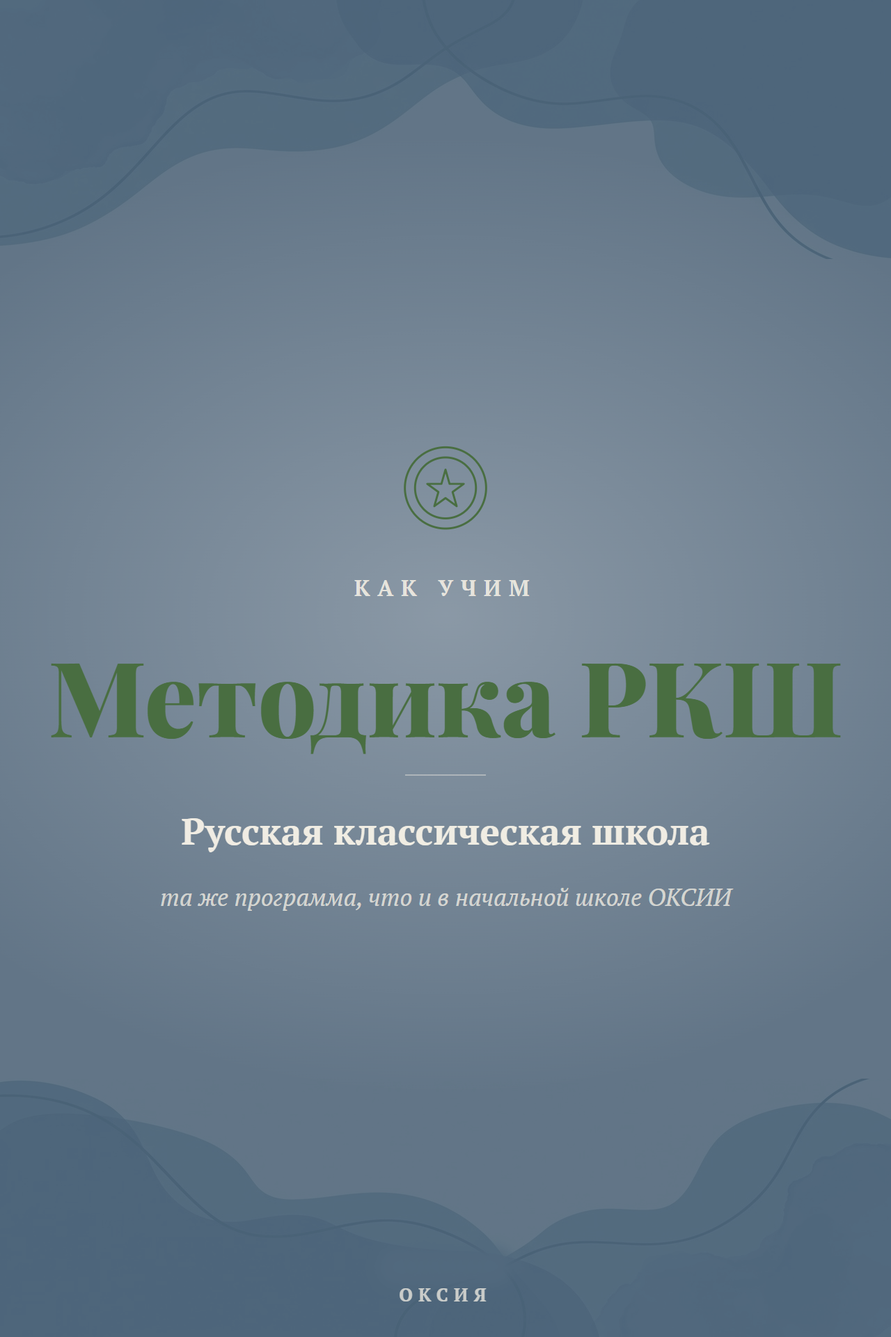
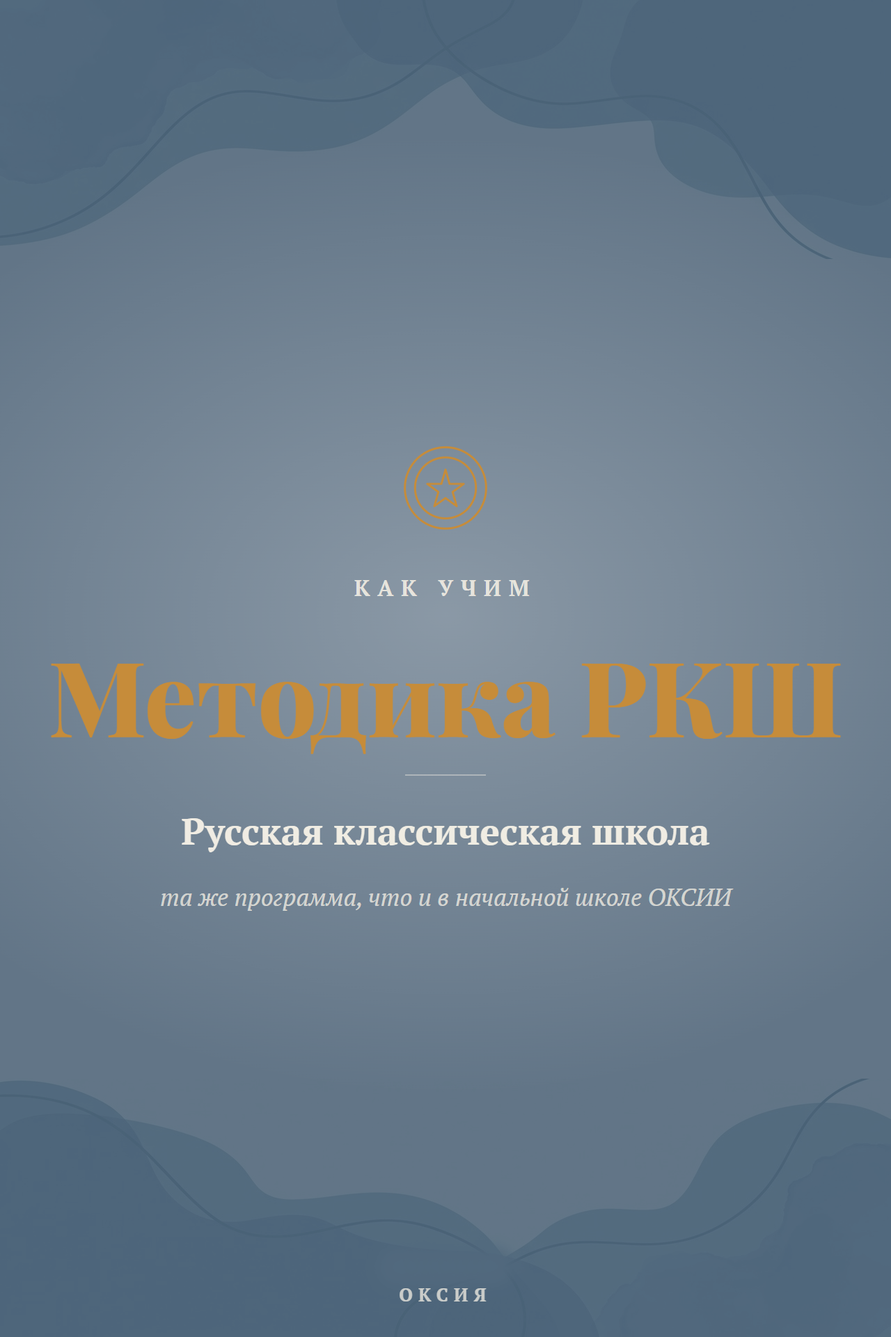
Перенос яркого дизайна на все 60 внутренних слайдов Историй
Все 5 оставшихся историй (Семейные классы, Доп. занятия, Педагоги, Как проходят занятия, Как записаться) переведены на новую цветовую систему (ротация синий/красный/зелёный, две фоновые волны, вариативная композиция).

Фикс: заголовок инверт-слайдов («Методика РКШ» и другие) раньше принудительно красился в акцентный цвет слайда через инлайн-стиль, из-за чего на синем фоне текст иногда выходил нечитаемым (зелёный на синем). Теперь инверт-слайды всегда используют тёплое золото для заголовка, акцент больше их не перекрывает.

Changed region(s): [[0.0625, 0.4688, 0.625, 0.5625], [0.6562, 0.4688, 0.9375, 0.5625], [0.4375, 0.3438, 0.5625, 0.4062]]

diff --git a/story-preview/_build/slide-bright.html b/story-preview/_build/slide-bright.html
@@ -14,6 +14,7 @@
     --blue-muted:#43678F;
     --red-muted:#A53D2D;
     --green-muted:#496E41;
+    --gold-inv:#C68C3A;
     --fg-kick:var(--bronze-soft);
     --fg-disp:var(--blue-muted);
     --fg-body:var(--ink);
@@ -139,7 +140,7 @@
   }
 
   /* inverted (solid blue background) */
-  .zone.inv{ --fg-kick:rgba(251,245,233,.82); --fg-disp:#FBF5E9; --fg-body:rgba(251,245,233,.92);
+  .zone.inv{ --fg-kick:rgba(251,245,233,.82); --fg-disp:var(--gold-inv); --fg-body:rgba(251,245,233,.92);
     --fg-lead:#FBF5E9; --chip-bg:rgba(251,245,233,.14); }
   .zone.inv .chip{ color:#FBF5E9; border-left-color:#FBF5E9; border-color:rgba(251,245,233,.3); }
   .zone.inv .hair{ border-color:rgba(251,245,233,.55); }
@@ -224,6 +225,264 @@ const S = {
   <h1 class="disp">Запишитесь<br>на занятие</h1>
   <div class="lines">Васильевский остров, 16-я линия, 7<br>rksh-oksia.ru</div>
   <div class="phone">+7 (921) 556-07-24</div>
+  <div class="btn">Записаться</div>` },
+
+/* ═══ История 2 · Семейные классы (обложка n=2 в story-covers-bright.html) ═══ */
+12:{ bg:'tb-bright-gold', accent:'var(--blue-muted)', icon:I.book, isize:'150px', ds:'108px', html:`
+  <div class="kick">Что это</div>
+  <h1 class="disp">Начальная школа<br>полного дня</h1>
+  <div class="sub">семейные классы, методика РКШ</div>
+  <div class="cap">основная программа школы</div>` },
+
+13:{ bg:'tb-bright', align:'left', accent:'var(--red-muted)', icon:I.bookcheck, isize:'150px', ds:'110px', html:`
+  <div class="kick">Чему учат</div>
+  <h1 class="disp">Чтение, письмо,<br>арифметика</h1>
+  <div class="hair"></div>
+  <div class="lead">Всё остальное строится<br>на этой основе</div>` },
+
+14:{ bg:'tb-bright-gold', accent:'var(--green-muted)', icon:I.people, isize:'182px', ds:'150px', html:`
+  <div class="kick">Маленький класс</div>
+  <h1 class="disp">У класса<br>свой темп</h1>
+  <div class="chip">Педагог ведёт занятие так,<br>как дети усваивают, без гонки</div>` },
+
+15:{ bg:'tb-bright', align:'left', accent:'var(--blue-muted)', icon:I.people, isize:'188px', ds:'124px', html:`
+  <div class="kick">Внимание к каждому</div>
+  <h1 class="disp">Педагог знает<br>каждого</h1>
+  <div class="lead">Если что-то не понял,<br>разбирают сразу же</div>` },
+
+16:{ bg:'blue', inv:true, icon:I.hallmark, isize:'140px', ds:'150px', html:`
+  <div class="kick">Главный принцип</div>
+  <h1 class="disp">Идём от<br>понимания</h1>
+  <div class="hair b"></div>
+  <div class="sub">важно, что ребёнок понимает, зачем учится</div>
+  <div class="cap">программа не гонится за скоростью</div>` },
+
+17:{ bg:'tb-bright-gold', icon:I.person, accent:'var(--red-muted)', isize:'150px', ds:'112px', html:`
+  <div class="kick">Кому подходит</div>
+  <h1 class="disp">Тесно в большом<br>классе?</h1>
+  <div class="lead">В классе на 30 человек учитель<br>не успевает до каждого</div>` },
+
+18:{ bg:'tb-bright', ghost:'₽', accent:'var(--green-muted)', icon:I.cap, isize:'150px', ns:'214px', html:`
+  <div class="kick">Стоимость</div>
+  <div class="num">39 000 ₽</div>
+  <div class="permo">в месяц</div>
+  <div class="hair"></div>
+  <div class="lead">Материалы и работа<br>педагога входят в цену</div>` },
+
+19:{ bg:'tb-bright-gold', accent:'var(--blue-muted)', icon:I.bookcheck, isize:'150px', ds:'112px', html:`
+  <div class="kick">Частый вопрос</div>
+  <h1 class="disp">Уйти в обычную<br>школу можно</h1>
+  <div class="chip">Программа по ФГОС,<br>без разрыва в знаниях</div>` },
+
+20:{ bg:'tb-bright', align:'left', accent:'var(--red-muted)', icon:I.bell, isize:'150px', ds:'150px', html:`
+  <div class="kick">Как записаться</div>
+  <h1 class="disp">Начните<br>со встречи</h1>
+  <div class="lines">Познакомим с программой и педагогом<br>Васильевский остров, 16-я линия, 7</div>
+  <div class="phone">+7 (921) 556-07-24</div>
+  <div class="btn">Записаться</div>` },
+
+/* ═══ История 3 · Дополнительные занятия (обложка n=3 в story-covers-bright.html) ═══ */
+22:{ bg:'tb-bright-gold', accent:'var(--green-muted)', icon:I.palette, isize:'150px', ds:'150px', html:`
+  <div class="kick">Как это работает</div>
+  <h1 class="disp">Отдельно<br>от школы</h1>
+  <div class="chip">Ходить может любой ребёнок,<br>не только из нашей школы</div>` },
+
+23:{ bg:'tb-bright', align:'left', accent:'var(--red-muted)', icon:I.sound, isize:'150px', html:`
+  <div class="kick">Логопед</div>
+  <div class="num">2 000 ₽</div>
+  <div class="permo">за занятие</div>
+  <div class="hair"></div>
+  <div class="lead">Ставят именно тот звук,<br>что не даётся. Дети 3-10 лет</div>` },
+
+24:{ bg:'tb-bright-gold', align:'left', accent:'var(--blue-muted)', icon:I.book, isize:'150px', html:`
+  <div class="kick">Репетитор</div>
+  <div class="num">1 600 ₽</div>
+  <div class="permo">за занятие</div>
+  <div class="hair"></div>
+  <div class="lead">Математика, русский и чтение.<br>Школьники 8-13 лет</div>` },
+
+25:{ bg:'tb-bright', ghost:'₽', accent:'var(--green-muted)', icon:I.person, isize:'140px', html:`
+  <div class="kick">Каллиграфия</div>
+  <div class="num">9 900 ₽</div>
+  <div class="permo">курс, 9 занятий</div>
+  <div class="hair"></div>
+  <div class="lead">Наклон, нажим, соединения букв.<br>Дети 8-11 лет</div>` },
+
+26:{ bg:'tb-bright-gold', accent:'var(--red-muted)', icon:I.blocks, isize:'132px', ds:'150px', html:`
+  <div class="kick">Шахматы · 1 100 ₽</div>
+  <h1 class="disp">Два хода<br>вперёд</h1>
+  <div class="chip">Учатся спокойно<br>принимать проигрыш</div>
+  <div class="cap">с тренером, дети 7-11 лет</div>` },
+
+27:{ bg:'tb-bright', align:'left', accent:'var(--blue-muted)', icon:I.palette, isize:'150px', ds:'150px', html:`
+  <div class="kick">Лепка из глины · 1 100 ₽</div>
+  <h1 class="disp">Руки заняты<br>делом</h1>
+  <div class="lead">Уходит домой с готовой<br>вещью. Дети 7-13 лет</div>` },
+
+28:{ bg:'tb-bright-gold', accent:'var(--green-muted)', icon:I.book, isize:'150px', ds:'116px', html:`
+  <div class="kick">Творческое чтение · 1 100 ₽</div>
+  <h1 class="disp">Читаем то,<br>что выбрал сам</h1>
+  <div class="cap">обсуждаем книгу и мнение ребёнка о ней. Дети 6-10 лет</div>` },
+
+29:{ bg:'blue', inv:true, icon:I.hallmark, isize:'140px', ds:'120px', html:`
+  <div class="kick">Формат</div>
+  <h1 class="disp">Можно на одно<br>направление</h1>
+  <div class="hair b"></div>
+  <div class="sub">школа для этого не нужна</div>
+  <div class="cap">расписание подберём под возраст</div>` },
+
+30:{ bg:'tb-bright', align:'left', accent:'var(--red-muted)', icon:I.bell, isize:'150px', ds:'150px', html:`
+  <div class="kick">Как записаться</div>
+  <h1 class="disp">Выберите<br>занятие</h1>
+  <div class="lines">Скажем расписание и цену по нему<br>Васильевский остров, 16-я линия, 7</div>
+  <div class="phone">+7 (921) 556-07-24</div>
+  <div class="btn">Записаться</div>` },
+
+/* ═══ История 4 · Педагоги (обложка n=4 в story-covers-bright.html) ═══ */
+32:{ bg:'tb-bright-gold', accent:'var(--blue-muted)', icon:I.hallmark, isize:'140px', ds:'132px', html:`
+  <div class="kick">Что объединяет</div>
+  <h1 class="disp">Верят в то,<br>чему учат</h1>
+  <div class="cap">методику РКШ педагоги выбрали сами</div>` },
+
+33:{ bg:'tb-bright', align:'left', accent:'var(--red-muted)', icon:I.sound, isize:'150px', ds:'120px', html:`
+  <div class="kick">Логопед</div>
+  <h1 class="disp">Один ребёнок,<br>один звук</h1>
+  <div class="lead">Индивидуально, под конкретную<br>причину. Дети 3-10 лет</div>` },
+
+34:{ bg:'tb-bright-gold', accent:'var(--green-muted)', icon:I.blocks, isize:'132px', ds:'150px', html:`
+  <div class="kick">Шахматы</div>
+  <h1 class="disp">Отдельный<br>тренер</h1>
+  <div class="sub">регулярные занятия с понятным прогрессом</div>
+  <div class="cap">от урока к уроку виден рост</div>` },
+
+35:{ bg:'tb-bright', accent:'var(--blue-muted)', icon:I.people, isize:'182px', ds:'112px', html:`
+  <div class="kick">Специализация</div>
+  <h1 class="disp">У каждого своё<br>направление</h1>
+  <div class="cap">логопед, репетитор, тренер, педагоги школы</div>` },
+
+36:{ bg:'blue', inv:true, icon:I.phone, isize:'128px', ds:'116px', html:`
+  <div class="kick">Связь с родителями</div>
+  <h1 class="disp">Спросить можно<br>напрямую</h1>
+  <div class="hair b"></div>
+  <div class="chip">Пишете педагогу<br>вашего ребёнка</div>` },
+
+37:{ bg:'tb-bright-gold', align:'left', accent:'var(--red-muted)', icon:I.person, isize:'150px', ds:'126px', html:`
+  <div class="kick">До записи</div>
+  <h1 class="disp">Прийти<br>познакомиться</h1>
+  <div class="lead">Посмотреть занятие<br>и педагога, потом решать</div>` },
+
+38:{ bg:'tb-bright', accent:'var(--green-muted)', icon:I.bookcheck, isize:'150px', ds:'128px', html:`
+  <div class="kick">Отзывы</div>
+  <h1 class="disp">Пишут сами<br>родители</h1>
+  <div class="cap">прямо на карточке ОКСИИ, никто их не редактирует</div>` },
+
+39:{ bg:'tb-bright-gold', align:'left', accent:'var(--blue-muted)', icon:I.steps, isize:'128px', ds:'140px', html:`
+  <div class="kick">Первый шаг</div>
+  <h1 class="disp">Встреча<br>с педагогом</h1>
+  <div class="lead">Перед стартом занятий,<br>чтобы понять формат</div>` },
+
+40:{ bg:'tb-bright', accent:'var(--red-muted)', icon:I.bell, isize:'150px', ds:'132px', html:`
+  <div class="kick">Как записаться</div>
+  <h1 class="disp">Запишитесь<br>на встречу</h1>
+  <div class="lines">Васильевский остров, 16-я линия, 7<br>rksh-oksia.ru</div>
+  <div class="phone">+7 (921) 556-07-24</div>
+  <div class="btn">Записаться</div>` },
+
+/* ═══ История 5 · Как проходят занятия (обложка n=5 в story-covers-bright.html) ═══ */
+42:{ bg:'tb-bright-gold', accent:'var(--green-muted)', icon:I.people, isize:'182px', ds:'150px', html:`
+  <div class="kick">В школе</div>
+  <h1 class="disp">Класс до<br>12 человек</h1>
+  <div class="chip">Педагог видит всех сразу,<br>никто не теряется</div>` },
+
+43:{ bg:'tb-bright', align:'left', accent:'var(--red-muted)', icon:I.clock, isize:'146px', ds:'108px', html:`
+  <div class="kick">Учебный день</div>
+  <h1 class="disp">Уроки, перерывы,<br>прогулка</h1>
+  <div class="lead">Ребёнок знает распорядок<br>и привыкает к ритму</div>` },
+
+44:{ bg:'tb-bright-gold', accent:'var(--blue-muted)', icon:I.book, isize:'150px', ds:'138px', html:`
+  <div class="kick">Домашние задания</div>
+  <h1 class="disp">По возрасту,<br>по программе</h1>
+  <div class="lead">Столько, сколько ребёнок<br>сделает сам</div>` },
+
+45:{ bg:'blue', inv:true, icon:I.phone, isize:'128px', ds:'114px', html:`
+  <div class="kick">Родителям</div>
+  <h1 class="disp">Обратная связь<br>каждый день</h1>
+  <div class="cap">что было на занятиях и как прошло</div>` },
+
+46:{ bg:'tb-bright-gold', align:'left', accent:'var(--red-muted)', icon:I.clock, isize:'146px', ds:'138px', html:`
+  <div class="kick">Дополнительные занятия</div>
+  <h1 class="disp">Урок<br>от 40 минут</h1>
+  <div class="cap">до полутора часов, зависит от направления</div>` },
+
+47:{ bg:'tb-bright', accent:'var(--green-muted)', icon:I.steps, isize:'128px', ds:'150px', html:`
+  <div class="kick">Начало урока</div>
+  <h1 class="disp">Сначала<br>разминка</h1>
+  <div class="lead">Чтобы ребёнок включился<br>в работу постепенно</div>` },
+
+48:{ bg:'tb-bright-gold', align:'left', accent:'var(--blue-muted)', icon:I.palette, isize:'150px', ds:'118px', html:`
+  <div class="kick">Основная часть</div>
+  <h1 class="disp">Дальше<br>по направлению</h1>
+  <div class="cap">шахматы, лепка, чтение, логопед</div>` },
+
+49:{ bg:'tb-bright', accent:'var(--red-muted)', icon:I.bookcheck, isize:'150px', ds:'140px', html:`
+  <div class="kick">Первый раз</div>
+  <h1 class="disp">Посмотрите<br>вживую</h1>
+  <div class="chip">Первое занятие приходят<br>как на пробное</div>` },
+
+50:{ bg:'tb-bright-gold', align:'left', accent:'var(--green-muted)', icon:I.bell, isize:'150px', ds:'140px', html:`
+  <div class="kick">Как записаться</div>
+  <h1 class="disp">Запишитесь<br>на пробное</h1>
+  <div class="lines">Васильевский остров, 16-я линия, 7<br>rksh-oksia.ru</div>
+  <div class="phone">+7 (921) 556-07-24</div>
+  <div class="btn">Записаться</div>` },
+
+/* ═══ История 6 · Как записаться (обложка n=6 в story-covers-bright.html) ═══ */
+52:{ bg:'tb-bright-gold', accent:'var(--blue-muted)', icon:I.phone, isize:'128px', ds:'96px', html:`
+  <div class="kick">Телефон</div>
+  <h1 class="disp">+7 (921) 556-07-24</h1>
+  <div class="cap">один номер: звонок, Telegram, MAX</div>` },
+
+53:{ bg:'tb-bright', align:'left', accent:'var(--red-muted)', icon:I.house, isize:'150px', ds:'138px', html:`
+  <div class="kick">Адрес</div>
+  <h1 class="disp">16-я линия,<br>дом 7</h1>
+  <div class="lead">Васильевский остров,<br>Санкт-Петербург</div>` },
+
+54:{ bg:'tb-bright-gold', accent:'var(--green-muted)', icon:I.steps, isize:'128px', ds:'140px', html:`
+  <div class="kick">Как добраться</div>
+  <h1 class="disp">От метро<br>840 метров</h1>
+  <div class="cap">станция Горный институт</div>` },
+
+55:{ bg:'blue', inv:true, icon:I.people, isize:'182px', ds:'138px', html:`
+  <div class="kick">Первая встреча</div>
+  <h1 class="disp">Подберём<br>формат</h1>
+  <div class="hair b"></div>
+  <div class="sub">по возрасту и запросу ребёнка</div>` },
+
+56:{ bg:'tb-bright-gold', align:'left', accent:'var(--red-muted)', icon:I.house, isize:'150px', ds:'120px', html:`
+  <div class="kick">До записи</div>
+  <h1 class="disp">Прийти<br>посмотреть</h1>
+  <div class="lead">Увидеть, как идёт занятие,<br>и познакомиться</div>` },
+
+57:{ bg:'tb-bright', accent:'var(--blue-muted)', icon:I.clock, isize:'146px', ds:'124px', html:`
+  <div class="kick">Скорость ответа</div>
+  <h1 class="disp">Ответим<br>в тот же день</h1>
+  <div class="cap">обычно в течение нескольких часов</div>` },
+
+58:{ bg:'tb-bright-gold', accent:'var(--green-muted)', icon:I.phone, isize:'128px', ds:'150px', html:`
+  <div class="kick">Написать</div>
+  <h1 class="disp">Telegram<br>или MAX</h1>
+  <div class="chip">Ответим там же,<br>где вам удобно</div>` },
+
+59:{ bg:'tb-bright', accent:'var(--red-muted)', icon:I.bookcheck, isize:'150px', ds:'112px', html:`
+  <div class="kick">Что подготовить</div>
+  <h1 class="disp">Готовить<br>ничего не нужно</h1>
+  <div class="cap">приходите с ребёнком, остальное на месте</div>` },
+
+60:{ bg:'tb-bright-gold', align:'left', accent:'var(--blue-muted)', icon:I.bell, isize:'150px', ds:'118px', html:`
+  <div class="kick">Готовы?</div>
+  <h1 class="disp">Нажмите<br>«Записаться»</h1>
+  <div class="lines">Кнопка на карточке ведёт в форму заявки<br>Васильевский остров, 16-я линия, 7</div>
+  <div class="phone">+7 (921) 556-07-24</div>
   <div class="btn">Записаться</div>` }
 };
 
@@ -236,7 +495,7 @@ if(s.inv) z.classList.add('inv');
 if(s.isize) z.style.setProperty('--isize', s.isize);
 if(s.ds) z.style.setProperty('--ds', s.ds);
 if(s.ns) z.style.setProperty('--ns', s.ns);
-if(s.accent) z.style.setProperty('--fg-disp', s.accent);
+if(s.accent && !s.inv) z.style.setProperty('--fg-disp', s.accent);
 let pre = s.ghost ? `<div class="ghost">${s.ghost}</div>` : '';
 z.innerHTML = pre + `<div class="icon">${s.icon}</div>` + s.html;
 if(s.inv) document.querySelector('.wm').style.color = 'rgba(251,245,233,.8)';

diff --git a/card-preview/index.html b/card-preview/index.html
@@ -36,8 +36,10 @@
     <div class="card"><img src="cover-06.png?v=2" alt="Три способа связаться"></div>
   </div>
 
-  <h2>Внутренние слайды — «Подготовка к школе» (образец)</h2>
-  <p class="lead">Первая история целиком в новом стиле — если ок, переношу на остальные 5 историй (54 слайда).</p>
+  <h2>Внутренние слайды — все 6 историй (60 слайдов)</h2>
+  <p class="lead">Перенесено на весь дизайн. Заголовок «Методика РКШ» на синем фоне сделан золотым вместо зелёного — на синем зелёный не читался.</p>
+
+  <h3 style="font-size:14px;color:#6B6353;margin:20px 0 8px;">Подготовка к школе</h3>
   <div class="grid">
     <div class="card"><img src="slides-podgotovka/n2.png" alt="Слайд 2"></div>
     <div class="card"><img src="slides-podgotovka/n3.png" alt="Слайд 3"></div>
@@ -48,6 +50,71 @@
     <div class="card"><img src="slides-podgotovka/n8.png" alt="Слайд 8"></div>
     <div class="card"><img src="slides-podgotovka/n9.png" alt="Слайд 9"></div>
     <div class="card"><img src="slides-podgotovka/n10.png" alt="Слайд 10"></div>
+  </div>
+
+  <h3 style="font-size:14px;color:#6B6353;margin:20px 0 8px;">Семейные классы</h3>
+  <div class="grid">
+    <div class="card"><img src="slides-semejnye/n12.png" alt="Слайд 12"></div>
+    <div class="card"><img src="slides-semejnye/n13.png" alt="Слайд 13"></div>
+    <div class="card"><img src="slides-semejnye/n14.png" alt="Слайд 14"></div>
+    <div class="card"><img src="slides-semejnye/n15.png" alt="Слайд 15"></div>
+    <div class="card"><img src="slides-semejnye/n16.png" alt="Слайд 16"></div>
+    <div class="card"><img src="slides-semejnye/n17.png" alt="Слайд 17"></div>
+    <div class="card"><img src="slides-semejnye/n18.png" alt="Слайд 18"></div>
+    <div class="card"><img src="slides-semejnye/n19.png" alt="Слайд 19"></div>
+    <div class="card"><img src="slides-semejnye/n20.png" alt="Слайд 20"></div>
+  </div>
+
+  <h3 style="font-size:14px;color:#6B6353;margin:20px 0 8px;">Дополнительные занятия</h3>
+  <div class="grid">
+    <div class="card"><img src="slides-dop-zanyatiya/n22.png" alt="Слайд 22"></div>
+    <div class="card"><img src="slides-dop-zanyatiya/n23.png" alt="Слайд 23"></div>
+    <div class="card"><img src="slides-dop-zanyatiya/n24.png" alt="Слайд 24"></div>
+    <div class="card"><img src="slides-dop-zanyatiya/n25.png" alt="Слайд 25"></div>
+    <div class="card"><img src="slides-dop-zanyatiya/n26.png" alt="Слайд 26"></div>
+    <div class="card"><img src="slides-dop-zanyatiya/n27.png" alt="Слайд 27"></div>
+    <div class="card"><img src="slides-dop-zanyatiya/n28.png" alt="Слайд 28"></div>
+    <div class="card"><img src="slides-dop-zanyatiya/n29.png" alt="Слайд 29"></div>
+    <div class="card"><img src="slides-dop-zanyatiya/n30.png" alt="Слайд 30"></div>
+  </div>
+
+  <h3 style="font-size:14px;color:#6B6353;margin:20px 0 8px;">Педагоги, которые выбрали РКШ</h3>
+  <div class="grid">
+    <div class="card"><img src="slides-pedagogi/n32.png" alt="Слайд 32"></div>
+    <div class="card"><img src="slides-pedagogi/n33.png" alt="Слайд 33"></div>
+    <div class="card"><img src="slides-pedagogi/n34.png" alt="Слайд 34"></div>
+    <div class="card"><img src="slides-pedagogi/n35.png" alt="Слайд 35"></div>
+    <div class="card"><img src="slides-pedagogi/n36.png" alt="Слайд 36"></div>
+    <div class="card"><img src="slides-pedagogi/n37.png" alt="Слайд 37"></div>
+    <div class="card"><img src="slides-pedagogi/n38.png" alt="Слайд 38"></div>
+    <div class="card"><img src="slides-pedagogi/n39.png" alt="Слайд 39"></div>
+    <div class="card"><img src="slides-pedagogi/n40.png" alt="Слайд 40"></div>
+  </div>
+
+  <h3 style="font-size:14px;color:#6B6353;margin:20px 0 8px;">День идёт по расписанию</h3>
+  <div class="grid">
+    <div class="card"><img src="slides-kak-prohodyat/n42.png" alt="Слайд 42"></div>
+    <div class="card"><img src="slides-kak-prohodyat/n43.png" alt="Слайд 43"></div>
+    <div class="card"><img src="slides-kak-prohodyat/n44.png" alt="Слайд 44"></div>
+    <div class="card"><img src="slides-kak-prohodyat/n45.png" alt="Слайд 45"></div>
+    <div class="card"><img src="slides-kak-prohodyat/n46.png" alt="Слайд 46"></div>
+    <div class="card"><img src="slides-kak-prohodyat/n47.png" alt="Слайд 47"></div>
+    <div class="card"><img src="slides-kak-prohodyat/n48.png" alt="Слайд 48"></div>
+    <div class="card"><img src="slides-kak-prohodyat/n49.png" alt="Слайд 49"></div>
+    <div class="card"><img src="slides-kak-prohodyat/n50.png" alt="Слайд 50"></div>
+  </div>
+
+  <h3 style="font-size:14px;color:#6B6353;margin:20px 0 8px;">Три способа связаться</h3>
+  <div class="grid">
+    <div class="card"><img src="slides-kak-zapisatsya/n52.png" alt="Слайд 52"></div>
+    <div class="card"><img src="slides-kak-zapisatsya/n53.png" alt="Слайд 53"></div>
+    <div class="card"><img src="slides-kak-zapisatsya/n54.png" alt="Слайд 54"></div>
+    <div class="card"><img src="slides-kak-zapisatsya/n55.png" alt="Слайд 55"></div>
+    <div class="card"><img src="slides-kak-zapisatsya/n56.png" alt="Слайд 56"></div>
+    <div class="card"><img src="slides-kak-zapisatsya/n57.png" alt="Слайд 57"></div>
+    <div class="card"><img src="slides-kak-zapisatsya/n58.png" alt="Слайд 58"></div>
+    <div class="card"><img src="slides-kak-zapisatsya/n59.png" alt="Слайд 59"></div>
+    <div class="card"><img src="slides-kak-zapisatsya/n60.png" alt="Слайд 60"></div>
   </div>
 
   <h2>Карточки товаров</h2>
